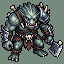
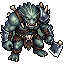
Cut the solid background off the Fomorian's north/south frames
PixelAI left a solid grey-green backdrop on the Fomorian's north and south
rotation frames (the other six were clean), so it showed as a filled square
behind the unit when it faced up or down. Flood-fill that backdrop transparent
from the edges — character preserved, correct facing kept. The import script
now does this automatically for any frame with a solid background.

Claude-Session: https://claude.ai/code/session_01WKhRt8ZZmze2AhDKaekxbQ

diff --git a/scripts/import_nextgen.py b/scripts/import_nextgen.py
@@ -3,7 +3,9 @@
 #   nextgen-sprites/<src>/Idle/rotations/<long-dir>.png      -> walkers/<role>/<short>_stand.png
 #   nextgen-sprites/<src>/Idle/animations/walk/<diag>/frame_00N.png -> <short>_walkN.png
 # Walk frames exist only for the 4 diagonals; cardinals repeat their idle (as the
-# existing art does). Pure file copies — the engine scales by height, no resize.
+# existing art does). The engine scales by height, so no resize.
+# If Pillow is available, any frame PixelAI left with a SOLID background has that
+# backdrop flood-filled transparent from the edges (character preserved).
 import os, shutil, sys
 
 ROOT = os.path.join(os.path.dirname(__file__), '..', 'assets', 'walkers')
@@ -11,6 +13,36 @@ SRC_ROOT = os.path.join(ROOT, 'nextgen-sprites')
 DIRMAP = {'south': 's', 'south-east': 'se', 'east': 'e', 'north-east': 'ne',
           'north': 'n', 'north-west': 'nw', 'west': 'w', 'south-west': 'sw'}
 WALK_FRAMES = 6
+
+try:
+    from PIL import Image
+    from collections import deque, Counter
+    def declutter(path, tol=40):
+        im = Image.open(path).convert('RGBA'); w, h = im.size; px = im.load()
+        border = ([(x, 0) for x in range(w)] + [(x, h - 1) for x in range(w)] + [(0, y) for y in range(h)] + [(w - 1, y) for y in range(h)]
+                  + [(x, 1) for x in range(w)] + [(x, h - 2) for x in range(w)] + [(1, y) for y in range(h)] + [(w - 2, y) for y in range(h)])
+        opaque = [(x, y) for (x, y) in border if px[x, y][3] > 200]
+        if not opaque:
+            return  # background already transparent
+        seed = Counter([px[x, y][:3] for (x, y) in opaque]).most_common(1)[0][0]
+        near = lambda p: p[3] > 0 and abs(p[0] - seed[0]) <= tol and abs(p[1] - seed[1]) <= tol and abs(p[2] - seed[2]) <= tol
+        seen = [[False] * w for _ in range(h)]; q = deque()
+        for (x, y) in opaque:
+            if near(px[x, y]) and not seen[y][x]:
+                seen[y][x] = True; q.append((x, y))
+        while q:
+            x, y = q.popleft(); px[x, y] = (px[x, y][0], px[x, y][1], px[x, y][2], 0)
+            for dx, dy in ((1, 0), (-1, 0), (0, 1), (0, -1)):
+                nx, ny = x + dx, y + dy
+                if 0 <= nx < w and 0 <= ny < h and not seen[ny][nx] and near(px[nx, ny]):
+                    seen[ny][nx] = True; q.append((nx, ny))
+        im.save(path)
+except Exception:
+    declutter = lambda path, tol=40: None  # Pillow missing — copy as-is
+
+def put(src_file, dst):
+    shutil.copy(src_file, dst)
+    declutter(dst)
 
 def convert(src, role):
     sd = os.path.join(SRC_ROOT, src, 'Idle')
@@ -20,16 +52,14 @@ def convert(src, role):
         stand = os.path.join(sd, 'rotations', f'{long}.png')
         if not os.path.exists(stand):
             print(f'  ! missing rotation {long} for {src}'); continue
-        shutil.copy(stand, os.path.join(out, f'{short}_stand.png'))
+        put(stand, os.path.join(out, f'{short}_stand.png'))
         wdir = os.path.join(sd, 'animations', 'walk', long)
         for i in range(WALK_FRAMES):
             frame = os.path.join(wdir, f'frame_{i:03d}.png')
-            dst = os.path.join(out, f'{short}_walk{i}.png')
-            shutil.copy(frame if os.path.exists(frame) else stand, dst)  # cardinals repeat idle
+            put(frame if os.path.exists(frame) else stand, os.path.join(out, f'{short}_walk{i}.png'))  # cardinals repeat idle
     print(f'  {src} -> walkers/{role}/')
 
 if __name__ == '__main__':
-    # pairs of (source folder, role name)
     jobs = [a.split('=') for a in sys.argv[1:]] if len(sys.argv) > 1 else [
         ('01_ancient_hurler', 'hurler'),
         ('02_camogie_player', 'hurler_f'),
